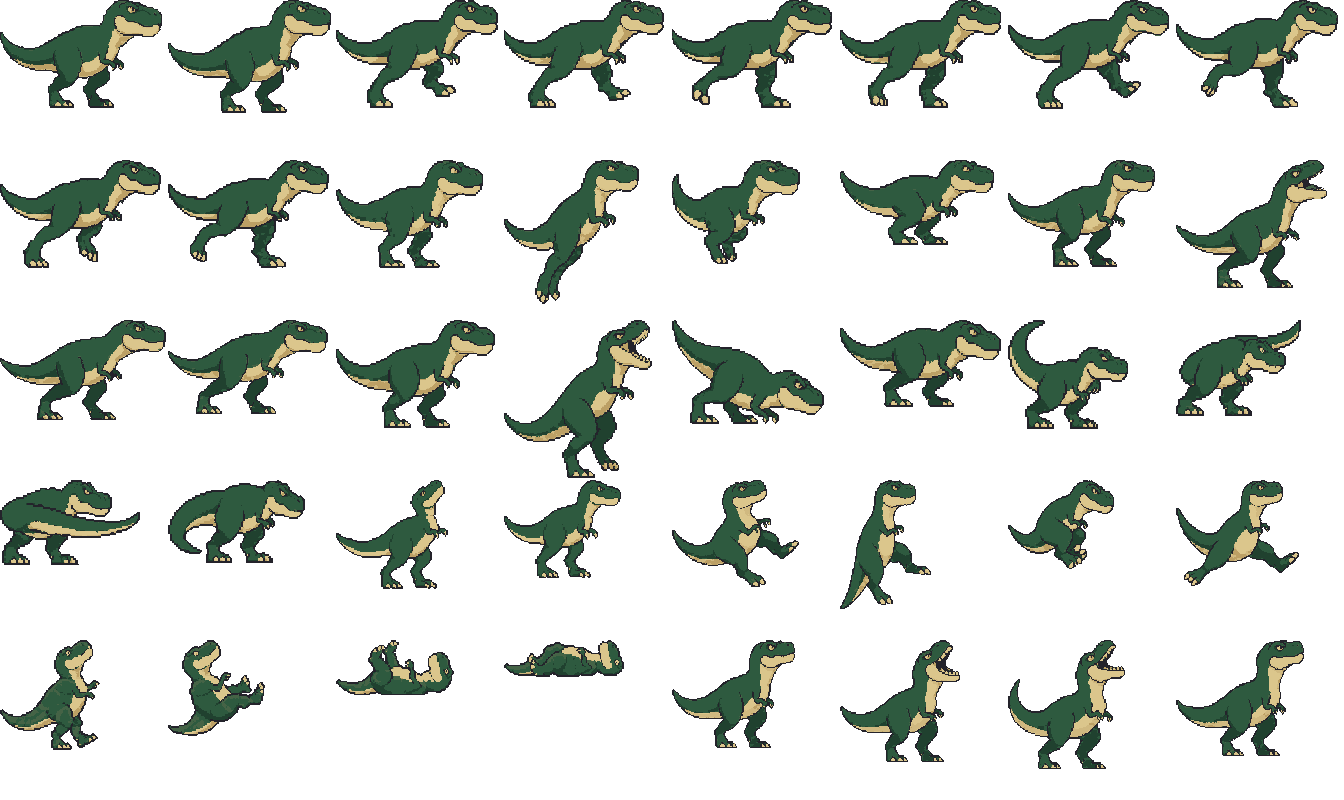
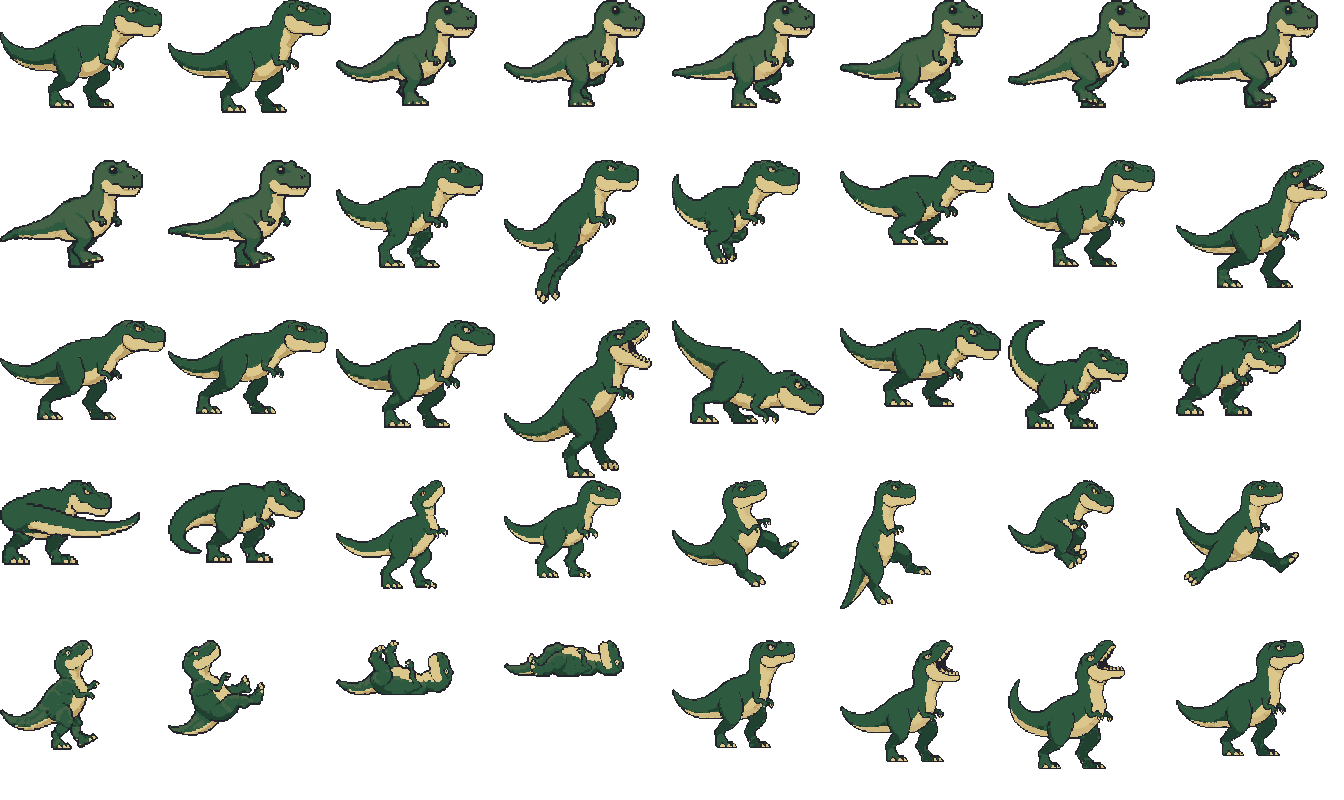
feat: 티라노 걷기 8칸(비디오 모션 경로 v1) 인테이크 — 시트 걷기 슬롯만 교체
- 아티스트 zip(dino_trex_walk_videopath_v1): 502x304 셀·발 297·1P 7색·2P 인덱스 치환. 알파 경계로 다시 잘라 anchor=(251-bbox.x, 298-bbox.y) 계약 그대로, 시트 격자·다른 클립 불변.
- 걷기 높이 106~108 art px(기존 108~109), anchor.x 81~84(기존 79~81) — 화면 424~436px.
- 인게임 대조판 evidence-walk/1-walk-in-game.png: 동종 미러에서 1P(초록)·2P(파랑) 걷기 8칸 + 랩 칸, 기존/신규 나란히. 도구 shoot-walk.mjs(스크린캐스트)·build-walk-compare.py.
- 762 tests, tsc, build:pilot 통과.

Changed region(s): [[0.25, 0.0, 1.0, 0.1562], [0.0, 0.1875, 0.25, 0.3438]]

diff --git a/scripts/build-walk-compare.py b/scripts/build-walk-compare.py
@@ -1,0 +1,141 @@
+#!/usr/bin/env python3
+"""걷기 인게임 대조판 — 기존 시트와 새 8칸을 같은 경기장·같은 배율로 나란히 놓는다.
+
+입력은 scripts/shoot-walk.mjs 가 받은 screencast 프레임(/tmp/walk-{old,new}/walk_{1p,2p}).
+  - 발밑 접지 링(1P #2E6BFF / 2P #E0453A)으로 그 순간의 접지선과 몸 중심을 찾는다.
+    (배경 시차 때문에 전체 프레임 차분은 못 쓴다 — 카메라가 함께 움직인다)
+  - 접지선을 행마다 같은 높이에 놓고 자르므로 세로 흔들림·크기 변화가 그대로 보인다.
+출력: 보드 PNG 1장 + 행별 측정 CSV.
+"""
+import glob
+import json
+import sys
+
+import numpy as np
+from PIL import Image, ImageDraw, ImageFont
+
+RING = {'1p': (46, 107, 255), '2p': (224, 69, 58)}
+CROP_W, CROP_UP, CROP_DOWN = 760, 620, 80
+# 한 걸음 8칸을 다 보여 준다(랩 지점 = 마지막 칸 → 첫 칸). 반으로 줄여 붙인다(도트 격자 유지).
+SCALE = 0.5
+COLS = 8
+# 랩(8번째 → 1번째)을 눈으로 보라고 9번째 칸에 1번째 칸을 한 번 더 놓는다.
+STRIP = COLS + 1
+LABEL_W = 250
+FONT = '/usr/share/fonts/truetype/nanum/NanumSquareRoundB.ttf'
+
+
+def load(dirname):
+    files = sorted(glob.glob(f'{dirname}/*.png'))
+    stamps = json.load(open(f'{dirname}/frames.json'))
+    return files, stamps
+
+
+def locate(path, color):
+    a = np.asarray(Image.open(path).convert('RGB'))
+    mask = np.all(a == np.array(color), axis=-1)
+    ys, xs = np.where(mask)
+    if len(xs) == 0:
+        return None
+    # 접지 링(가장 아래 뭉치)과 머리 위 표식(가장 위 뭉치)을 나눈다.
+    ground = int(ys.max())
+    ring_rows = ys[ys >= ground - 40]
+    ring_x = xs[ys >= ground - 40]
+    cx = int((ring_x.min() + ring_x.max()) / 2)
+    ground_y = int(ring_rows.min())
+    head_rows = ys[ys <= ground_y - 200]
+    head_bottom = int(head_rows.max()) if len(head_rows) else None
+    return {'cx': cx, 'ground': ground_y, 'head_bottom': head_bottom}
+
+
+def pick(files, stamps, color, count=COLS):
+    """같은 시간 간격(걷기 1칸 = 83.3ms)으로 위상을 고른다 — 두 빌드가 같은 박자를 보게.
+
+    고정 타임스텝 게임이라 시작 시각만 맞추면 같은 간격이 같은 걸음 위상이 된다.
+    """
+    found = []
+    for path, stamp in zip(files, stamps):
+        spot = locate(path, color)
+        if spot:
+            found.append((stamp, path, spot))
+    if not found:
+        return []
+    found.sort()
+    t0 = found[0][0]
+    chosen = []
+    for i in range(count):
+        target = t0 + 0.05 + i * (1 / 12)  # 83.3ms = 걷기 한 칸
+        best = min(found, key=lambda item: abs(item[0] - target))
+        if best not in chosen:
+            chosen.append(best)
+    return chosen
+
+
+def main():
+    old_root, new_root, out = sys.argv[1], sys.argv[2], sys.argv[3]
+    rows = []
+    for who, color in RING.items():
+        for tag, root in (('기존', old_root), ('신규', new_root)):
+            files, stamps = load(f'{root}/walk_{who}')
+            chosen = pick(files, stamps, color)
+            rows.append({'who': who, 'tag': tag, 'picks': chosen})
+
+    row_h = int((CROP_UP + CROP_DOWN) * SCALE)
+    cell_w = int(CROP_W * SCALE)
+    head_h = 64
+    ctx_scale = 0.45
+    ctx_w, ctx_h = int(1920 * ctx_scale), int(1080 * ctx_scale)
+    board_w = max(LABEL_W + cell_w * STRIP, ctx_w * 2 + 32)
+    board = Image.new('RGB', (board_w, head_h + ctx_h + 24 + row_h * len(rows)), (12, 20, 24))
+    draw = ImageDraw.Draw(board)
+    font = ImageFont.truetype(FONT, 22)
+    small = ImageFont.truetype(FONT, 17)
+    draw.text((14, 8), '티라노 걷기 8칸 — 인게임 대조(같은 경기장·같은 배율 4px/art px · 반으로 줄임)', font=font, fill=(240, 235, 220))
+    draw.text((14, 38), '빨간 가로선 = 계약 키 108 아트px(화면 432px) · 초록선 = 접지선 · 8칸 = 한 걸음(83.3ms/칸), 8번째 → 1번째가 랩',
+              font=small, fill=(150, 190, 180))
+
+    # 위: 두 빌드의 실제 화면 한 장(1P가 걷는 순간). 아래: 걷기 위상 4칸 확대.
+    for i, (tag, root) in enumerate((('기존', old_root), ('신규', new_root))):
+        files, stamps = load(f'{root}/walk_1p')
+        mid = files[len(files) // 2]
+        shot = Image.open(mid).convert('RGB').resize((ctx_w, ctx_h), Image.NEAREST)
+        board.paste(shot, (16 + i * (ctx_w + 16), head_h))
+        draw.text((24 + i * (ctx_w + 16), head_h + 8), f'화면 전체 {tag}', font=small, fill=(240, 235, 220))
+    rows_top = head_h + ctx_h + 34
+
+    # 기준선: 계약 높이(108 아트 px = 432 화면 px)를 행마다 같은 자리에 그린다.
+    for r, row in enumerate(rows):
+        top = rows_top + r * row_h
+        draw.text((16, top + 8), f"{row['who'].upper()}  {row['tag']}", font=font,
+                  fill=(240, 235, 220) if row['tag'] == '신규' else (206, 186, 146))
+        note = ['시트 높이 108~109 artpx', '시트 높이 106~108 artpx'][0 if row['tag'] == '기존' else 1]
+        draw.text((16, top + 40), note, font=small, fill=(150, 190, 180))
+        draw.text((16, top + 62), '화면 424~436px', font=small, fill=(150, 190, 180))
+        cells = list(row['picks'])
+        if cells:
+            cells.append(cells[0])  # 랩 후 첫 칸
+        for c, (stamp, path, spot) in enumerate(cells):
+            im = Image.open(path).convert('RGB')
+            left = spot['cx'] - CROP_W // 2
+            crop = im.crop((left, spot['ground'] - CROP_UP, left + CROP_W, spot['ground'] + CROP_DOWN))
+            crop = crop.resize((cell_w, row_h), Image.NEAREST)
+            board.paste(crop, (LABEL_W + c * cell_w, top))
+            x0 = LABEL_W + c * cell_w
+            ground_y = top + int(CROP_UP * SCALE)
+            # 접지선(모든 칸 같은 높이)과 계약 높이 기준선(108 아트px = 432 화면px).
+            draw.line([(x0, ground_y), (x0 + cell_w, ground_y)], fill=(70, 110, 100), width=1)
+            draw.line([(x0, ground_y - int(432 * SCALE)), (x0 + cell_w, ground_y - int(432 * SCALE))], fill=(120, 80, 70), width=1)
+            if c:
+                draw.line([(x0, top), (x0, top + row_h)], fill=(40, 60, 60), width=1)
+    for c in range(STRIP):
+        x0 = LABEL_W + c * cell_w
+        draw.text((x0 + 6, rows_top - 30), f'{(c % COLS) + 1}', font=small, fill=(140, 170, 165))
+    # 8번째 → 9번째(=1번째 다시) 사이가 랩 지점이다.
+    seam = LABEL_W + COLS * cell_w
+    draw.line([(seam, rows_top - 34), (seam, rows_top + row_h * len(rows))], fill=(200, 90, 70), width=3)
+    draw.text((seam + 6, rows_top - 30), '← 랩', font=small, fill=(230, 120, 90))
+    board.save(out)
+    print('board', out, board.size)
+
+
+main()

diff --git a/scripts/intake-trex-walk.py b/scripts/intake-trex-walk.py
@@ -1,0 +1,74 @@
+#!/usr/bin/env python3
+"""티라노 걷기 8칸(비디오 모션 경로 v1) 인테이크 — 시트의 걷기 슬롯만 교체한다.
+
+계약(스크립트 build-species-sprites.py와 동일):
+  - 셀 502×304, 발 기준선 footY=298, 기준 x anchorX=251
+  - 프레임은 아티스트 선언 bbox가 아니라 알파 실제 경계로 자른다
+  - anchor = (anchorX - bbox.x, footY - bbox.y) = "잘라낸 그림 안에서 발 기준점"
+
+이 스크립트는 걷기 클립만 갈아 끼운다(idle·공격·승리 클립과 시트 격자는 그대로).
+1P 시트는 그대로, 2P 시트는 아티스트가 준 _2p 프레임(알파 동일·2P 팔레트 치환)으로 교체.
+
+사용: python3 scripts/intake-trex-walk.py <zip 푼 폴더>
+"""
+import json
+import sys
+from pathlib import Path
+
+from PIL import Image
+
+CELL = (502, 304)
+FOOT_Y = 298
+ANCHOR_X = 251
+SPECIES = Path('dev-art/species/trex')
+
+
+def alpha_bbox(im):
+    return im.getchannel('A').getbbox()
+
+
+def main():
+    src = Path(sys.argv[1])
+    manifest = json.loads((SPECIES / 'manifest.json').read_text(encoding='utf-8'))
+    walk = manifest['clips']['walk']['frames']
+    assert len(walk) == 8, walk
+
+    sheet = Image.open(SPECIES / 'sheet.png').convert('RGBA')
+    sheet2 = Image.open(SPECIES / 'sheet_p2.png').convert('RGBA')
+    cell_w, cell_h = manifest['grid']['cellW'], manifest['grid']['cellH']
+    cols = manifest['grid']['cols']
+
+    for step, index in enumerate(walk):
+        frame = manifest['frames'][index]
+        slot_x = (index % cols) * cell_w
+        slot_y = (index // cols) * cell_h
+        # 1) 슬롯을 비운다(이전 그림의 잔여 픽셀이 남지 않게).
+        for sheet_image in (sheet, sheet2):
+            sheet_image.paste((0, 0, 0, 0), (slot_x, slot_y, slot_x + cell_w, slot_y + cell_h))
+
+        # 2) 1P/2P 프레임을 알파 경계로 잘라 같은 슬롯에 놓는다.
+        for suffix, sheet_image in (('', sheet), ('_2p', sheet2)):
+            art = Image.open(src / f'trex_walk_{step:02d}{suffix}.png').convert('RGBA')
+            assert art.size == CELL, (step, art.size)
+            bbox = alpha_bbox(art)
+            cropped = art.crop(bbox)
+            sheet_image.paste(cropped, (slot_x, slot_y))
+            if suffix == '':
+                frame['w'], frame['h'] = cropped.size
+                frame['anchor'] = {'x': ANCHOR_X - bbox[0], 'y': FOOT_Y - bbox[1]}
+                frame['source'] = f'walk_{step:02d}.png'
+            else:
+                # 2P는 알파가 같아야 한다(같은 그림의 팔레트 치환).
+                assert alpha_bbox(art) == bbox, (step, '2P 알파 불일치')
+
+    sheet.save(SPECIES / 'sheet.png')
+    sheet2.save(SPECIES / 'sheet_p2.png')
+    # 원본과 같은 한 줄 압축 형식으로 쓴다(포맷 변경이 diff에 섞이지 않게).
+    (SPECIES / 'manifest.json').write_text(
+        json.dumps(manifest, ensure_ascii=False, separators=(',', ':')), encoding='utf-8')
+    for index in walk:
+        frame = manifest['frames'][index]
+        print(f"walk {frame['source']}: {frame['w']}×{frame['h']} anchor {frame['anchor']}")
+
+
+main()
